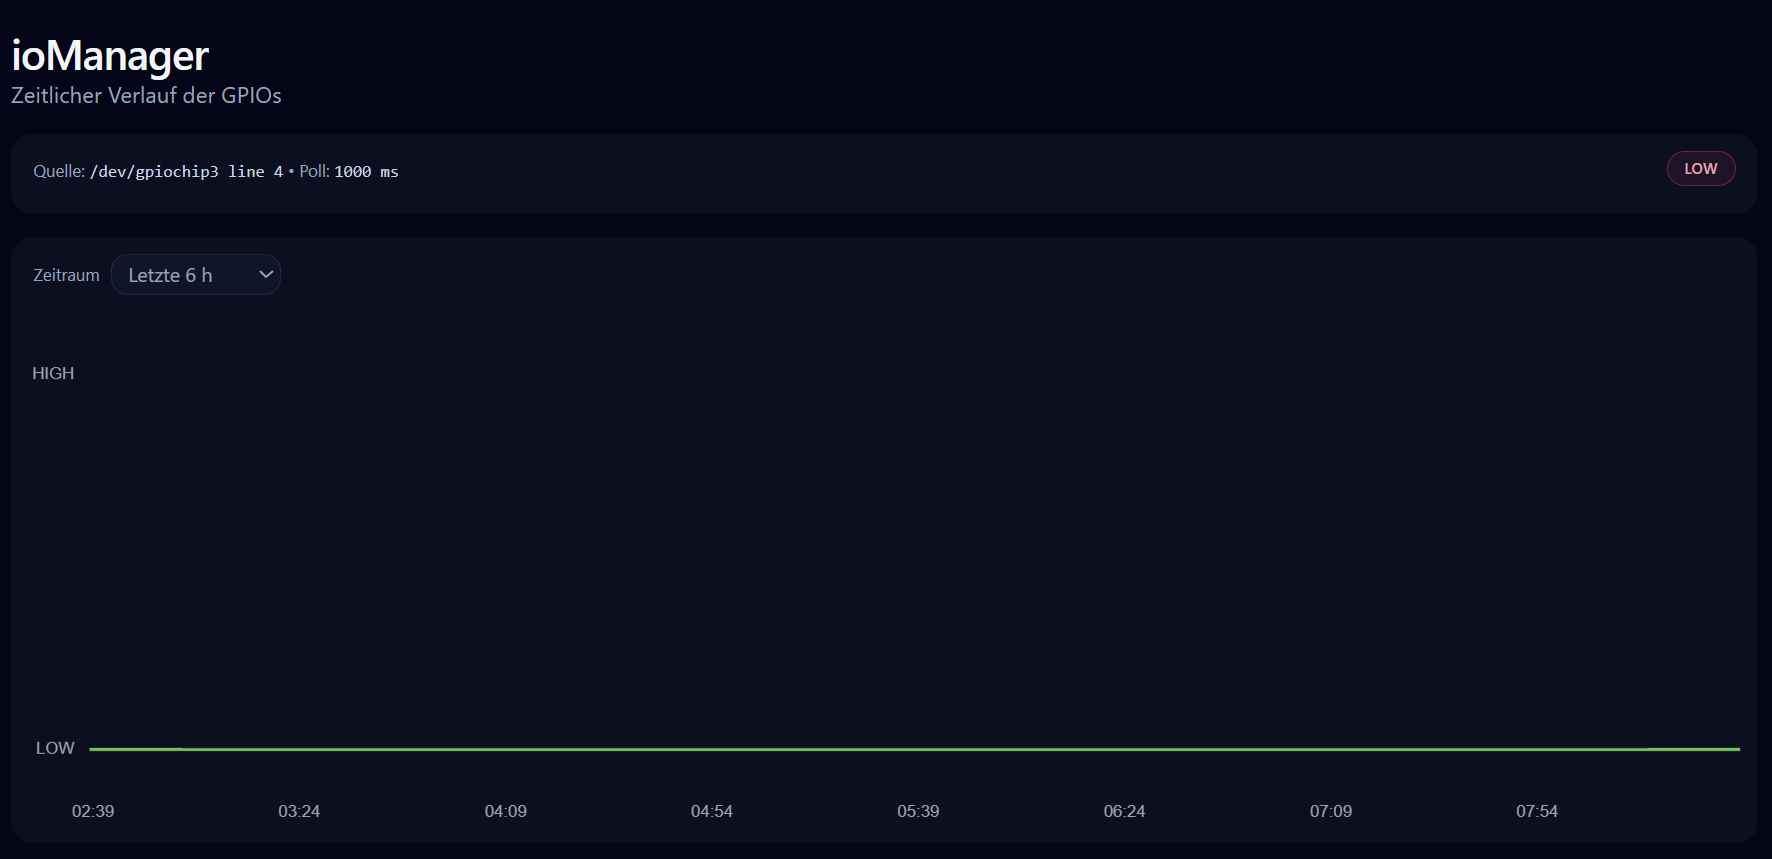
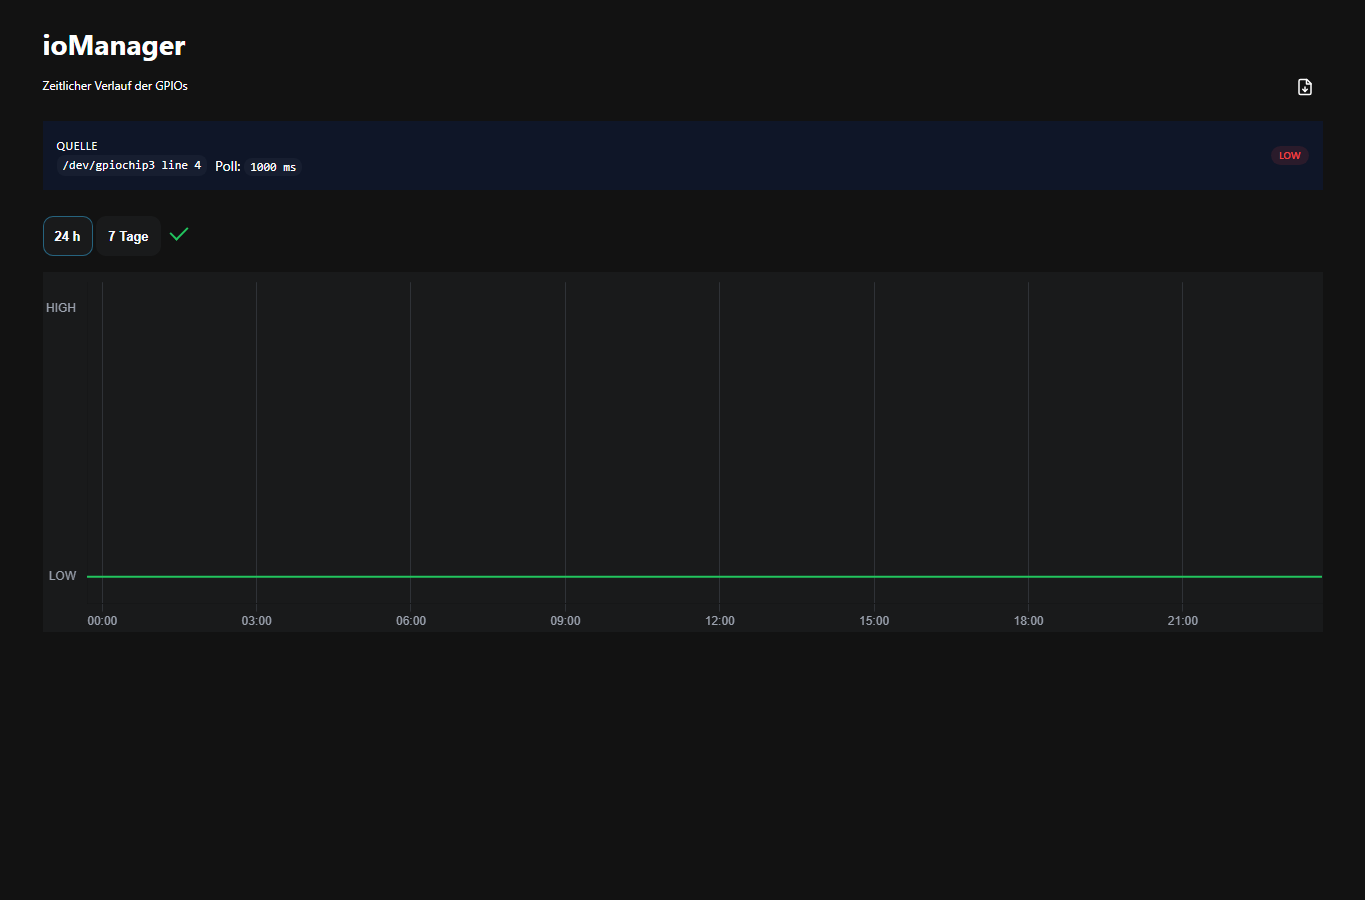
Update documentation screenshots

diff --git a/docs/software/smarthub.md b/docs/software/smarthub.md
@@ -81,6 +81,4 @@ Details: [Updates](../maintenance/updates.md) und [Backup und Wiederherstellung]
 
 ## Screenshots
 
-![SmartHub - Startseite](../assets/images/ui-smarthub-home.png)
-
-![SmartHub - Einstellungen / Netzwerk](../assets/images/ui-smarthub-network.png)
+![SmartHub - USV-Diagnose](../assets/images/ui-smarthub-usv.png)

diff --git a/docs/software/chargeledger.md b/docs/software/chargeledger.md
@@ -41,3 +41,7 @@ chargeLedger verwendet die im System verfügbaren Ladedaten. Je nach Auslieferun
 - PDF-Vorschau für einen bekannten Monat erzeugen.
 - Download/Export testen.
 - Zahlenformat und Kilometerangaben plausibilisieren.
+
+## Screenshot
+
+![chargeLedger - Hauptansicht](../assets/images/ui-chargeledger-main.png)

diff --git a/docs/software/tenantledger.md b/docs/software/tenantledger.md
@@ -40,3 +40,7 @@ tenantLedger ist ein unterstützendes Werkzeug für technische Abrechnungsunterl
 - Beispielzeitraum berechnen.
 - PDF erzeugen und Werte plausibilisieren.
 - Darstellung auf Desktop und Mobil prüfen.
+
+## Screenshot
+
+![tenantLedger - Hauptansicht](../assets/images/ui-tenantledger-main.png)
